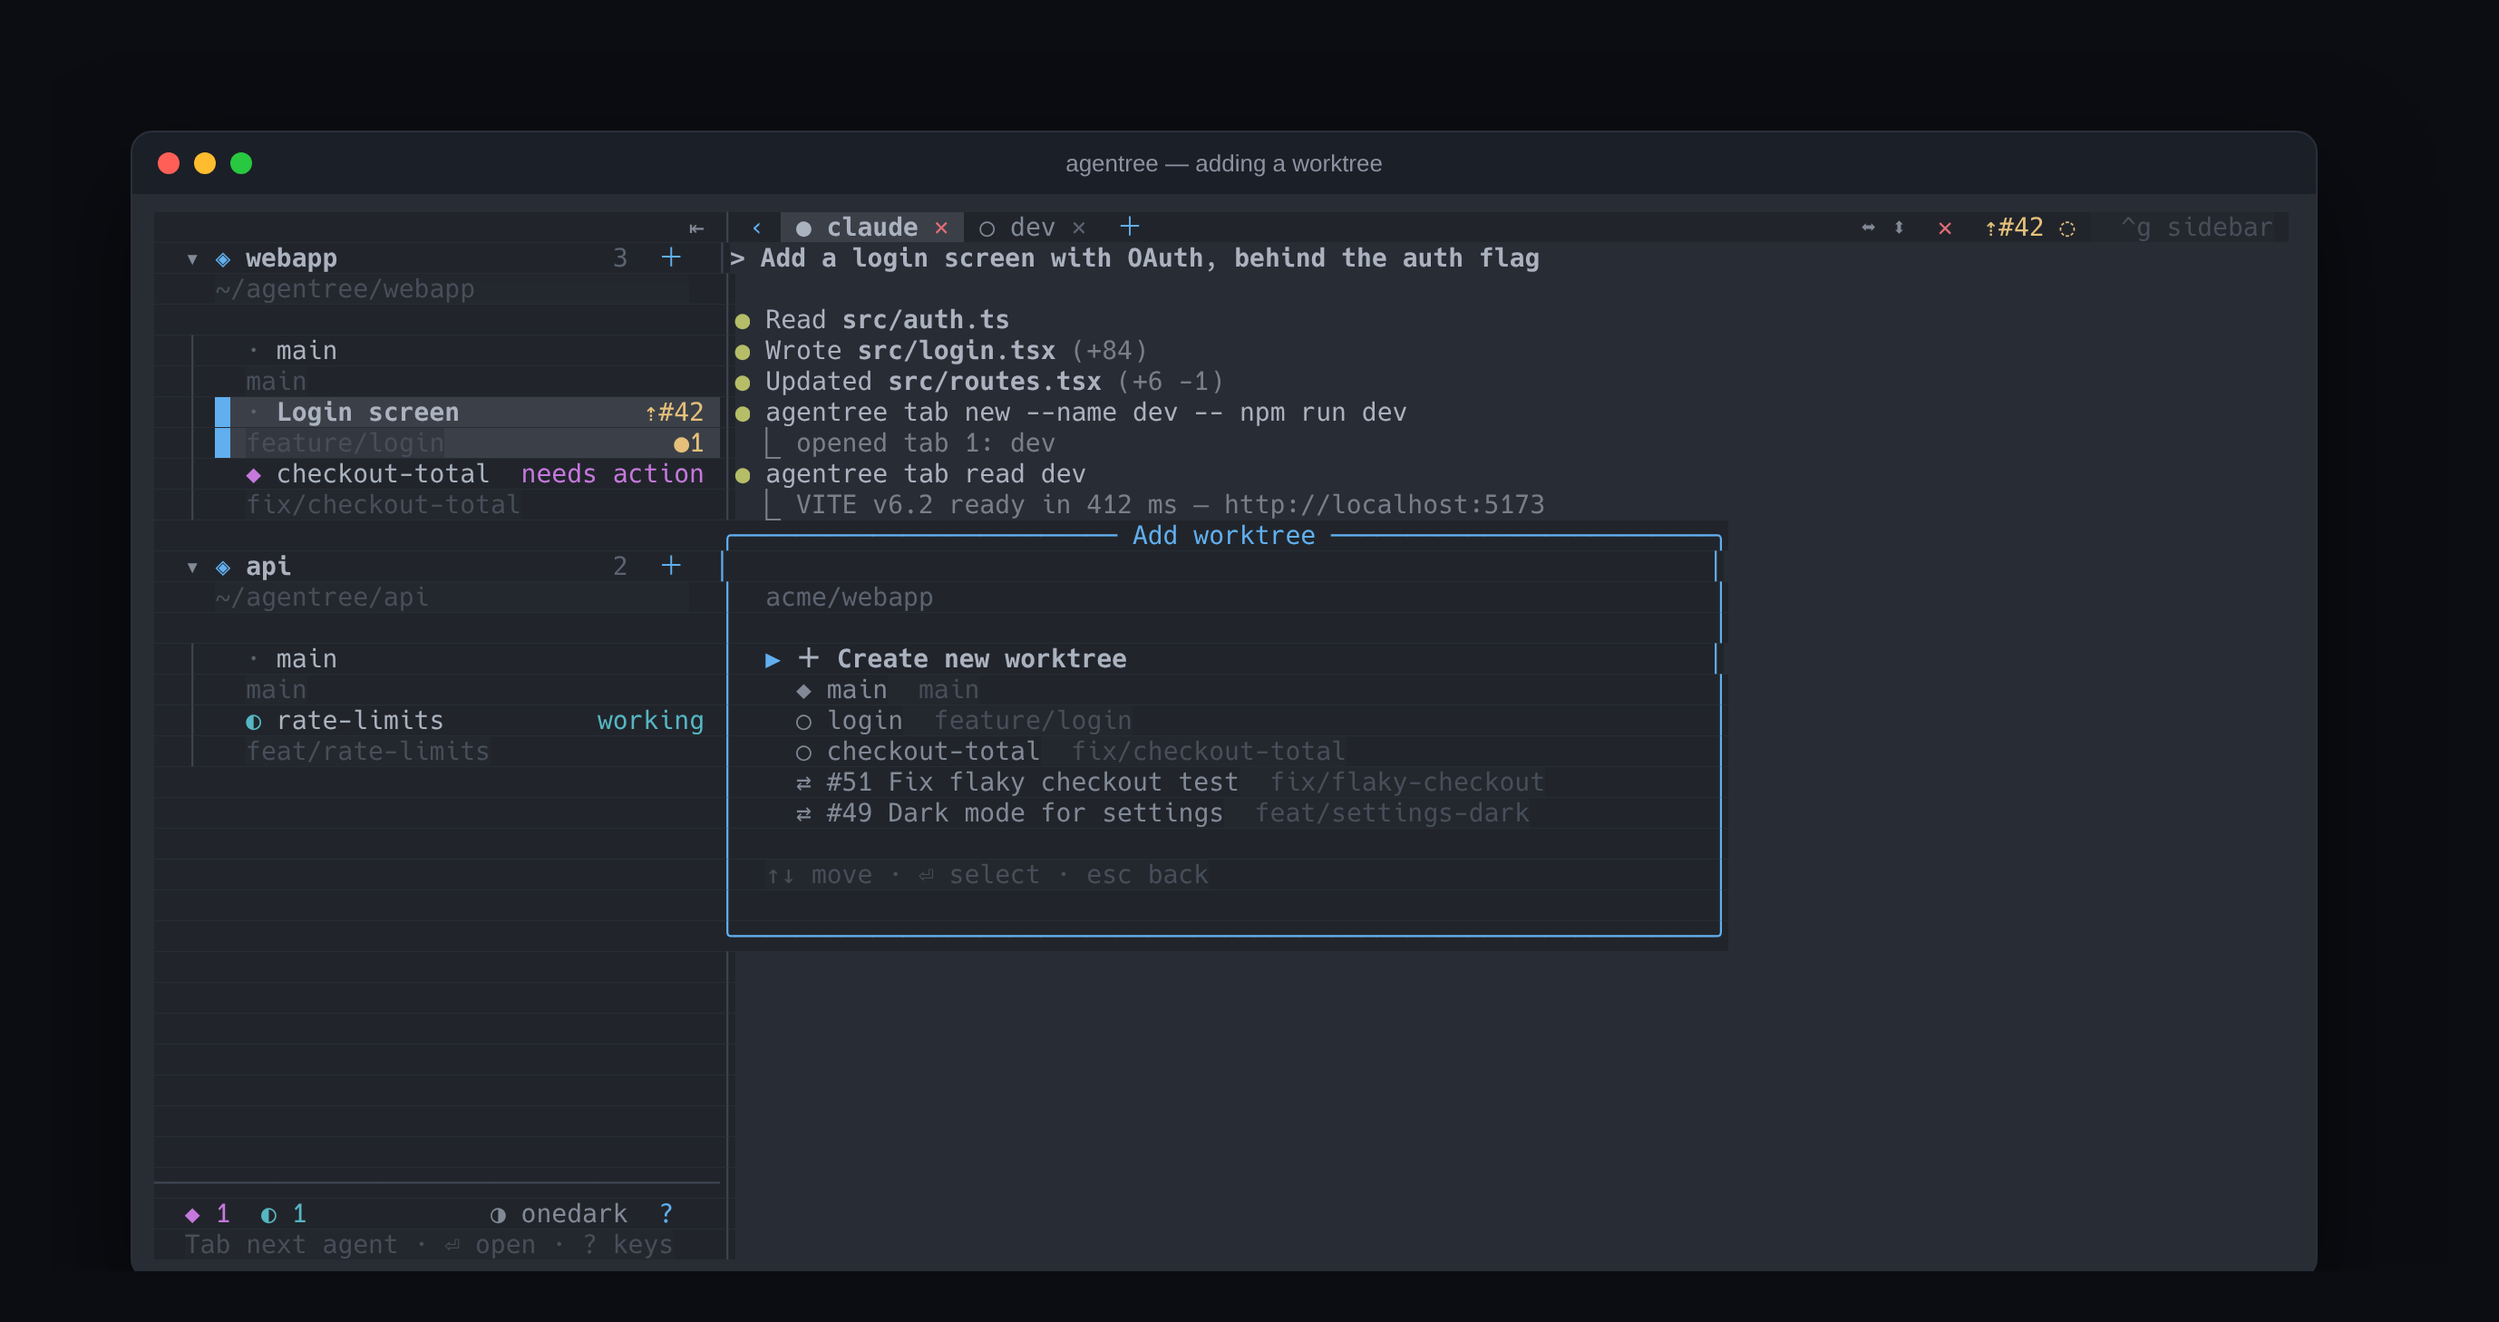
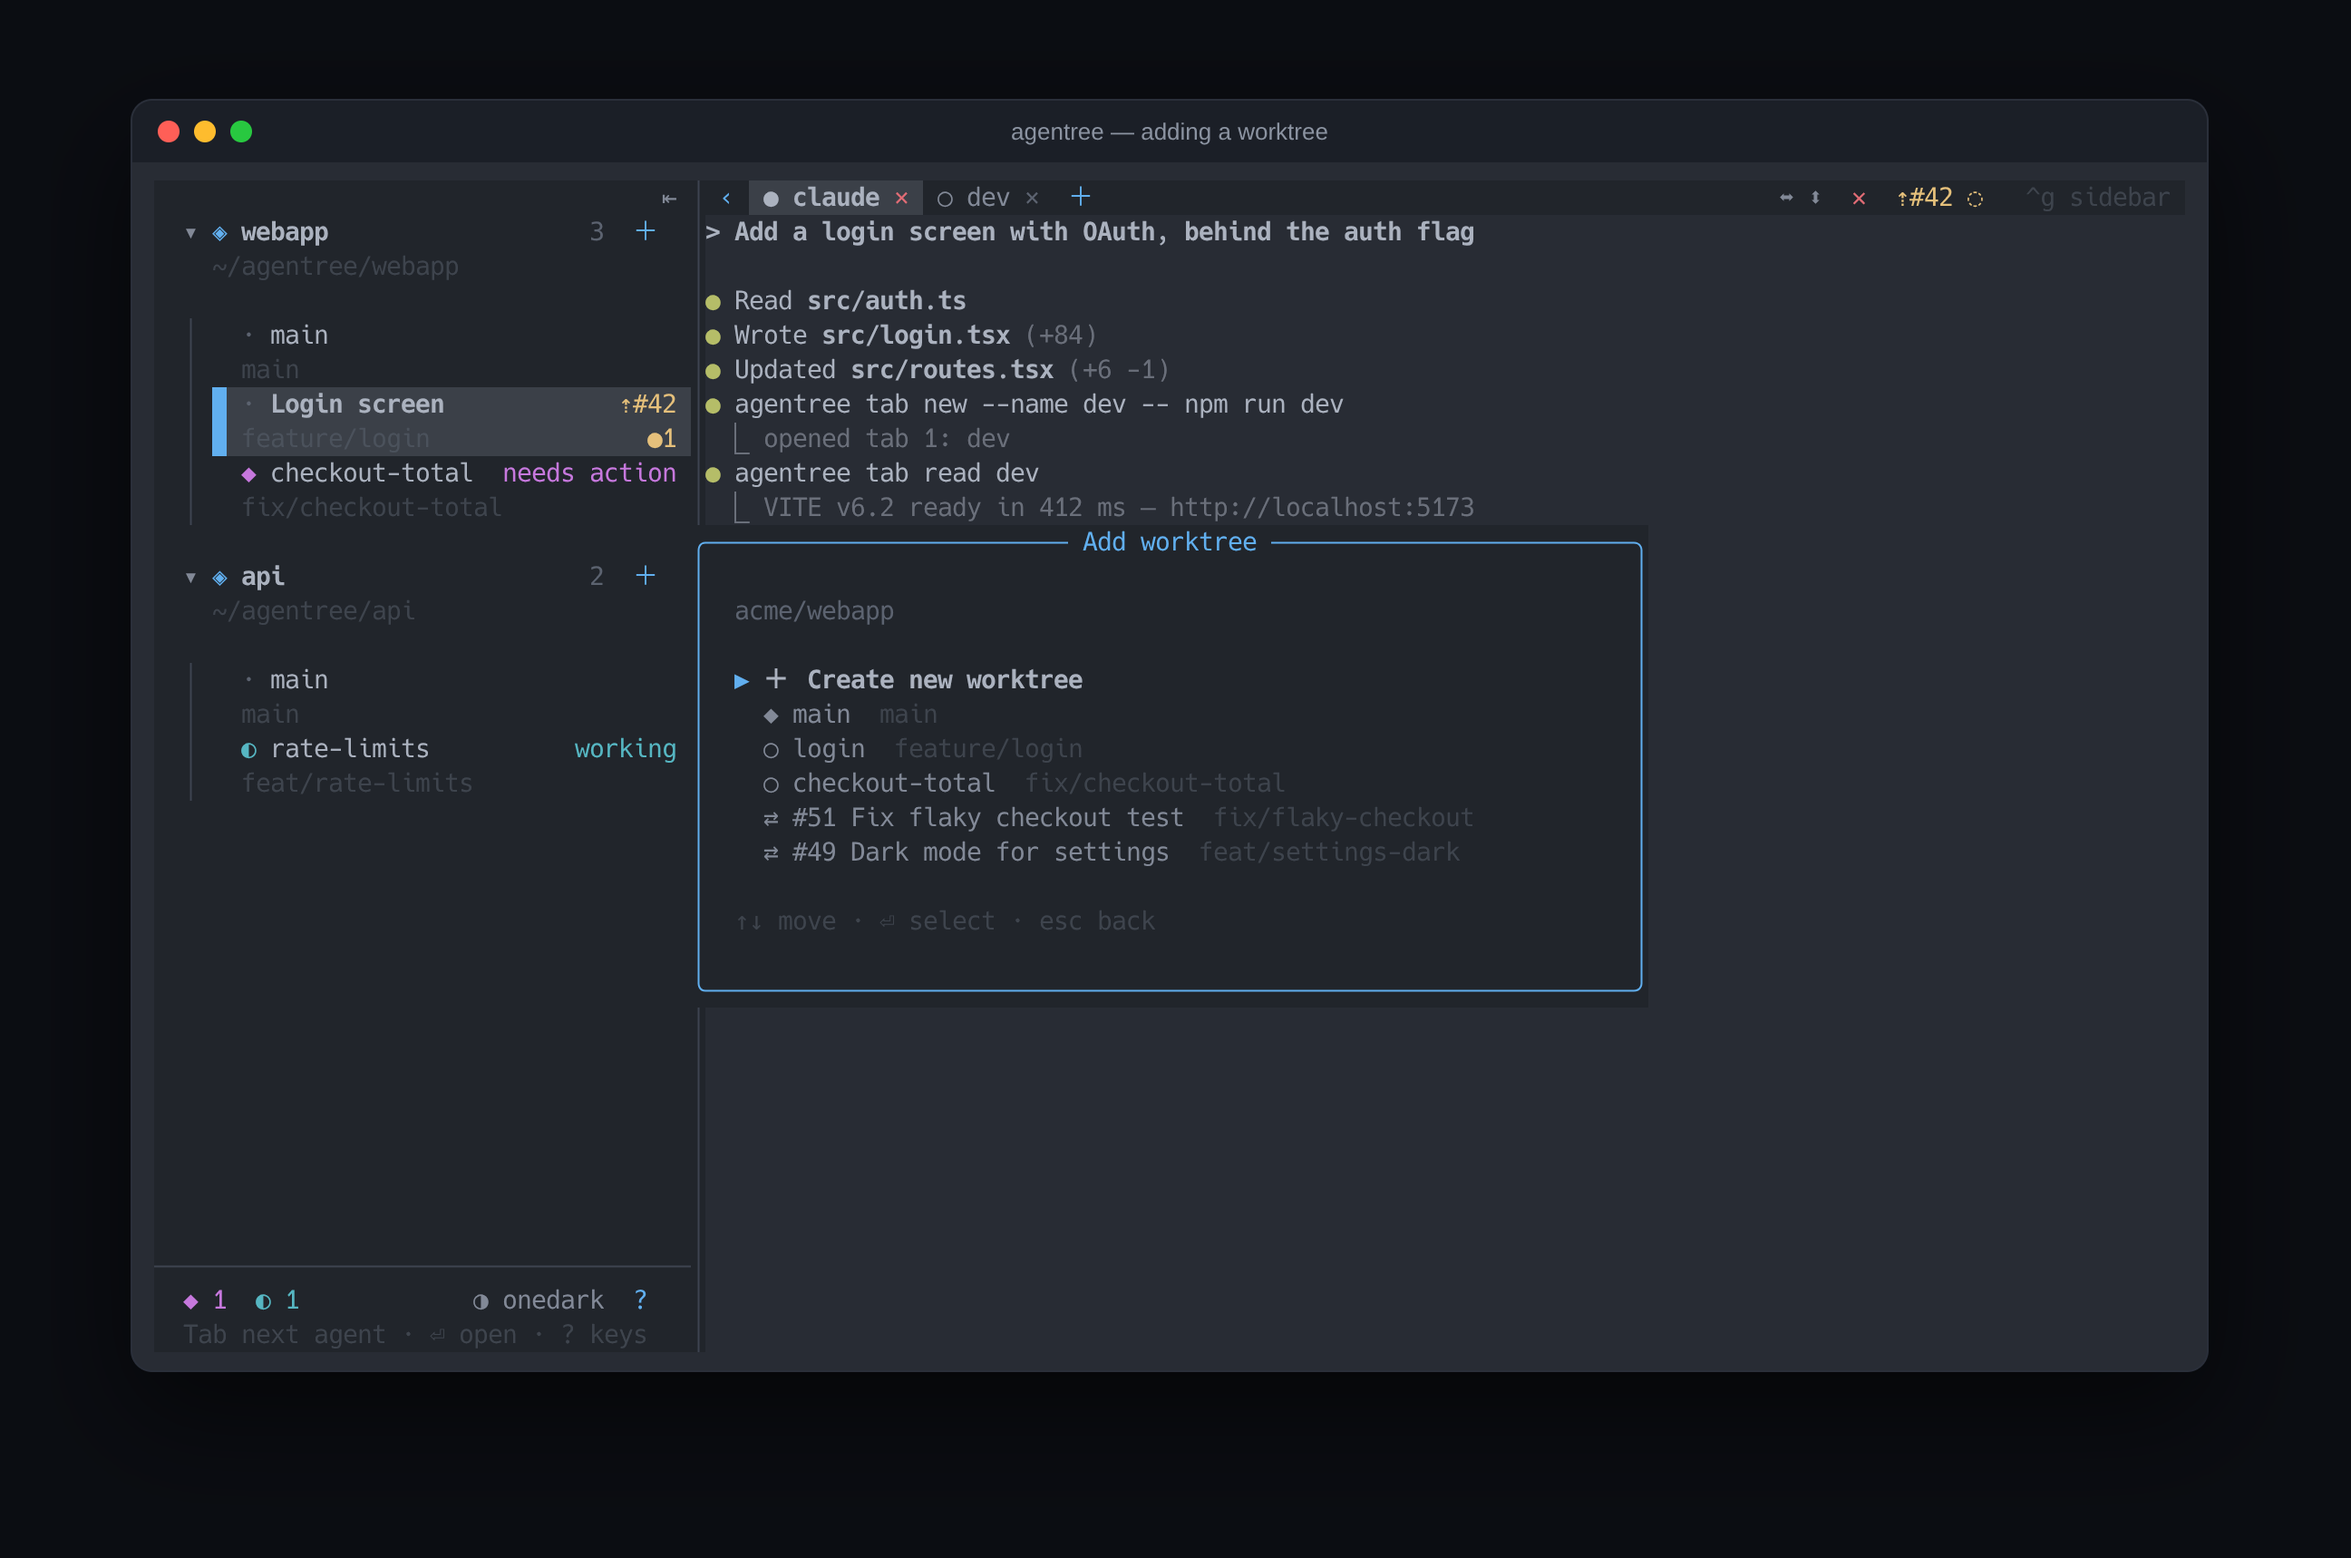
docs: screenshots drawn by a real terminal emulator (xterm.js)
The screenshots laid each captured frame out as HTML text, and a browser
isn't a terminal: symbols the font lacks (◈ ＋ ◐ ⏎) came from fallback
fonts at other widths and shifted the rest of their row, span backgrounds
stopped short of the row height and left stripes, box-drawing lines had
gaps, and dim text's opacity dimmed its background into a box.

The frame is now replayed as ANSI — each span placed at its own column —
into xterm.js with its WebGL renderer in headless Chrome, which keeps
every glyph in its cell, fills cells edge to edge and draws box-drawing
characters itself. @xterm/xterm and @xterm/addon-webgl are dev
dependencies, used only by the script.

diff --git a/scripts/screenshots.tsx b/scripts/screenshots.tsx
@@ -8,7 +8,7 @@
  *
  * Needs Chrome (or Chromium) and tmux. Re-run it when the UI changes.
  */
-import { mkdirSync, mkdtempSync, rmSync, writeFileSync } from "node:fs";
+import { copyFileSync, mkdirSync, mkdtempSync, rmSync, writeFileSync } from "node:fs";
 import { tmpdir } from "node:os";
 import { join, resolve } from "node:path";
 import { agentStatusDir } from "../src/services/agents";
@@ -209,14 +209,13 @@ const scenes: Record<string, { title: string; shoot(sb: Sandbox): Promise<Frame>
   },
 };
 
-// ── Frame → HTML → PNG ──
-
-const channel = (c: Rgba, i: number) =>
-  Math.round(c.buffer[i] ?? 0)
-    .toString(16)
-    .padStart(2, "0");
-const hex = (c: Rgba) => `#${channel(c, 0)}${channel(c, 1)}${channel(c, 2)}`;
-const escapeHtml = (s: string) => s.replace(/&/g, "&amp;").replace(/</g, "&lt;").replace(/>/g, "&gt;");
+// ── Frame → terminal → PNG ──
+//
+// The frame is replayed as ANSI into xterm.js (the terminal emulator VS Code
+// uses) in headless Chrome, rather than laid out as HTML text: a terminal
+// keeps every glyph in its cell (symbols from fallback fonts included), fills
+// each cell's background edge to edge, and draws box-drawing lines itself so
+// they join up.
 
 /** The sandbox's temp paths, as they'd read on a real machine (same width, so nothing shifts). */
 function realPaths(text: string): string {
@@ -226,25 +225,46 @@ function realPaths(text: string): string {
   });
 }
 
-function toHtml(frame: Frame, title: string): string {
+const rgb = (c: Rgba) => [0, 1, 2].map((i) => Math.round(c.buffer[i] ?? 0)).join(";");
+
+/**
+ * The frame as ANSI: each span placed at its own column (so a character the
+ * two sides measure differently can't shift the rest of the row), in its
+ * colours and attributes.
+ */
+function toAnsi(frame: Frame): string {
+  let out = "\x1b[?25l"; // no cursor
+  frame.lines.forEach((line, row) => {
+    let col = 0;
+    for (const span of line.spans) {
+      const sgr = ["0", `38;2;${rgb(span.fg)}`];
+      if ((span.bg.buffer[3] ?? 0) > 0) sgr.push(`48;2;${rgb(span.bg)}`);
+      if (span.attributes & 1) sgr.push("1");
+      if (span.attributes & 2) sgr.push("2");
+      if (span.attributes & 4) sgr.push("3");
+      if (span.attributes & 8) sgr.push("4");
+      out += `\x1b[${row + 1};${col + 1}H\x1b[${sgr.join(";")}m${realPaths(span.text)}`;
+      col += Bun.stringWidth(span.text);
+    }
+  });
+  return `${out}\x1b[0m`;
+}
+
+function page(frame: Frame, title: string): string {
   const theme = getTheme();
-  const rows = frame.lines
-    .map((line) => {
-      const cells = line.spans
-        .map((s) => {
-          const style = [`color:${hex(s.fg)}`];
-          if ((s.bg.buffer[3] ?? 0) > 0) style.push(`background:${hex(s.bg)}`);
-          if (s.attributes & 1) style.push("font-weight:700");
-          if (s.attributes & 2) style.push("opacity:.62");
-          if (s.attributes & 4) style.push("font-style:italic");
-          if (s.attributes & 8) style.push("text-decoration:underline");
-          return `<span style="${style.join(";")}">${escapeHtml(realPaths(s.text))}</span>`;
-        })
-        .join("");
-      return `<div class="row">${cells}</div>`;
-    })
-    .join("");
-  return `<!doctype html><meta charset="utf-8"><style>
+  const escapeHtml = (s: string) => s.replace(/&/g, "&amp;").replace(/</g, "&lt;").replace(/>/g, "&gt;");
+  const options = {
+    cols: frame.cols,
+    rows: frame.rows,
+    fontFamily: '"Hack", "DejaVu Sans Mono", monospace',
+    fontSize: 14,
+    lineHeight: 1.2,
+    customGlyphs: true,
+    drawBoldTextInBrightColors: false,
+    disableStdin: true,
+    theme: { background: theme.bg, foreground: theme.fg },
+  };
+  return `<!doctype html><meta charset="utf-8"><link rel="stylesheet" href="xterm.css"><style>
   html,body{margin:0;background:#0b0d12}
   .stage{display:inline-block;padding:44px}
   .win{border-radius:12px;overflow:hidden;background:${theme.bg};border:1px solid #2a2f3a;
@@ -253,13 +273,20 @@ function toHtml(frame: Frame, title: string): string {
        font:500 13px -apple-system,"Inter","Segoe UI",sans-serif;color:#8b93a1;position:relative}
   .dot{width:12px;height:12px;border-radius:50%}
   .title{position:absolute;left:0;right:0;text-align:center;pointer-events:none}
-  .term{padding:10px 12px;font-family:"Hack","DejaVu Sans Mono","Menlo",monospace;font-size:14px;
-        line-height:17px;white-space:pre;color:${theme.fg};font-variant-ligatures:none}
-  .row{height:17px}
+  #term{padding:10px 12px}
   </style><div class="stage"><div class="win"><div class="bar">
   <span class="dot" style="background:#ff5f57"></span><span class="dot" style="background:#febc2e"></span>
   <span class="dot" style="background:#28c840"></span><span class="title">${escapeHtml(title)}</span></div>
-  <div class="term">${rows}</div></div></div>`;
+  <div id="term"></div></div></div>
+  <script src="xterm.js"></script><script src="addon-webgl.js"></script><script>
+  // The font has to be loaded before xterm measures its cells.
+  document.fonts.load('14px "Hack"').then(() => {
+    const term = new Terminal(${JSON.stringify(options)});
+    term.open(document.getElementById("term"));
+    term.loadAddon(new WebglAddon.WebglAddon());
+    term.write(${JSON.stringify(toAnsi(frame))});
+  });
+  </script>`;
 }
 
 function chrome(): string {
@@ -270,19 +297,27 @@ function chrome(): string {
   throw new Error("screenshots need Chrome or Chromium");
 }
 
+const xtermFiles = {
+  "xterm.js": require.resolve("@xterm/xterm/lib/xterm.js"),
+  "xterm.css": require.resolve("@xterm/xterm/css/xterm.css"),
+  "addon-webgl.js": require.resolve("@xterm/addon-webgl/lib/addon-webgl.js"),
+};
+
 async function photograph(html: string, png: string) {
   const dir = mkdtempSync(join(tmpdir(), "agentree-shot-"));
-  const page = join(dir, "page.html");
-  writeFileSync(page, html);
+  for (const [name, from] of Object.entries(xtermFiles)) copyFileSync(from, join(dir, name));
+  writeFileSync(join(dir, "page.html"), html);
   const shot = Bun.spawnSync([
     chrome(),
     "--headless=new",
-    "--disable-gpu",
+    "--use-angle=swiftshader", // WebGL without a GPU
+    "--enable-unsafe-swiftshader",
     "--hide-scrollbars",
     "--force-device-scale-factor=2",
-    "--window-size=1500,760",
+    "--window-size=1600,1100",
+    "--virtual-time-budget=5000", // let the font load and xterm draw first
     `--screenshot=${png}`,
-    `file://${page}`,
+    `file://${join(dir, "page.html")}`,
   ]);
   rmSync(dir, { recursive: true, force: true });
   if (shot.exitCode !== 0) throw new Error(new TextDecoder().decode(shot.stderr));
@@ -299,7 +334,7 @@ for (const [name, scene] of Object.entries(scenes)) {
   try {
     const frame = await scene.shoot(sb);
     const png = join(OUT, `${name}.png`);
-    await photograph(toHtml(frame, scene.title), png);
+    await photograph(page(frame, scene.title), png);
     console.log(`✓ ${png}`);
   } finally {
     sb.cleanup();
